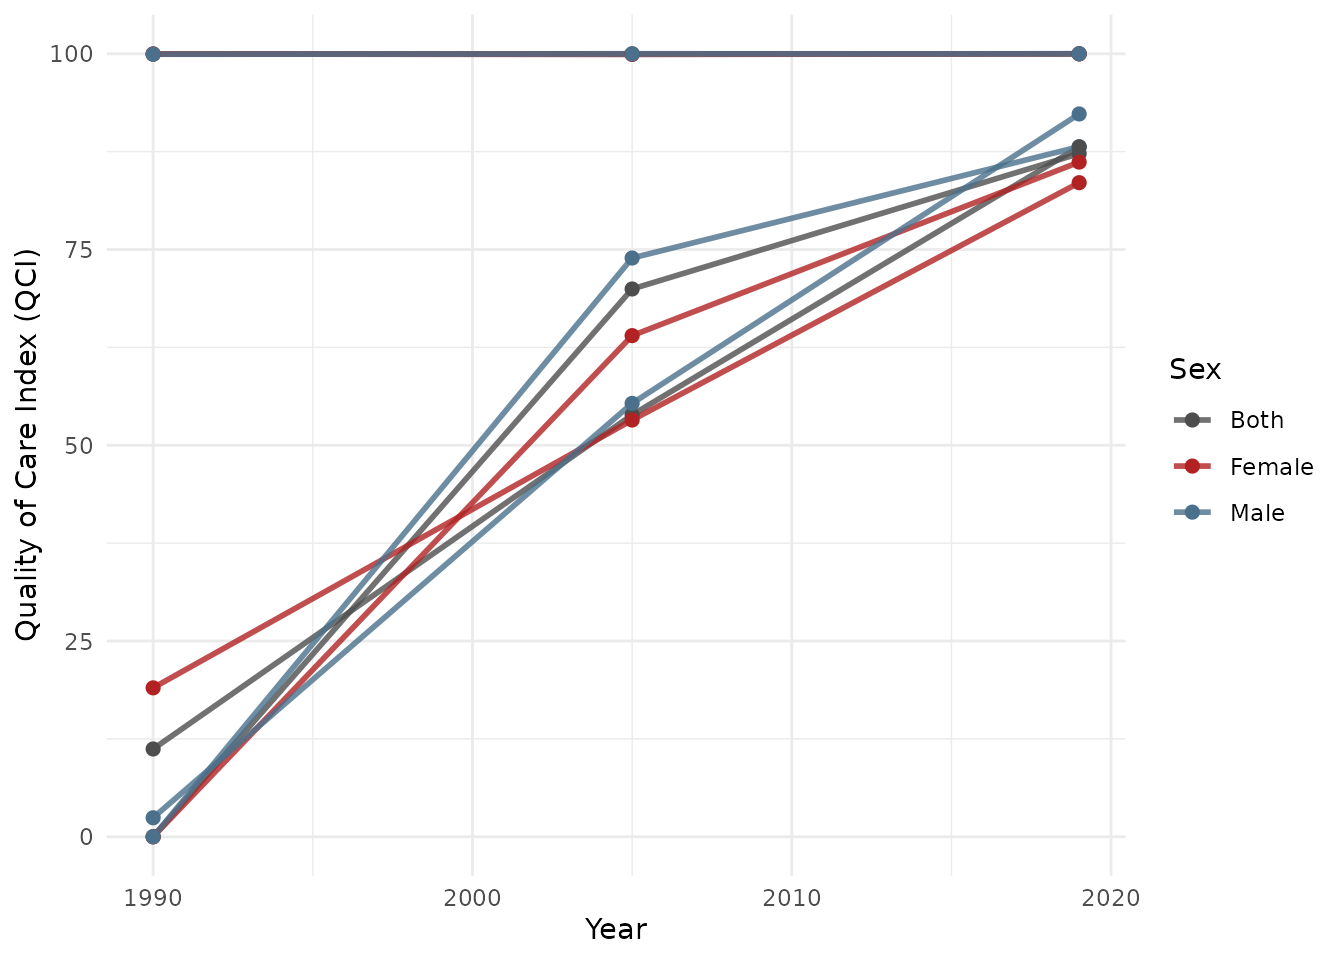
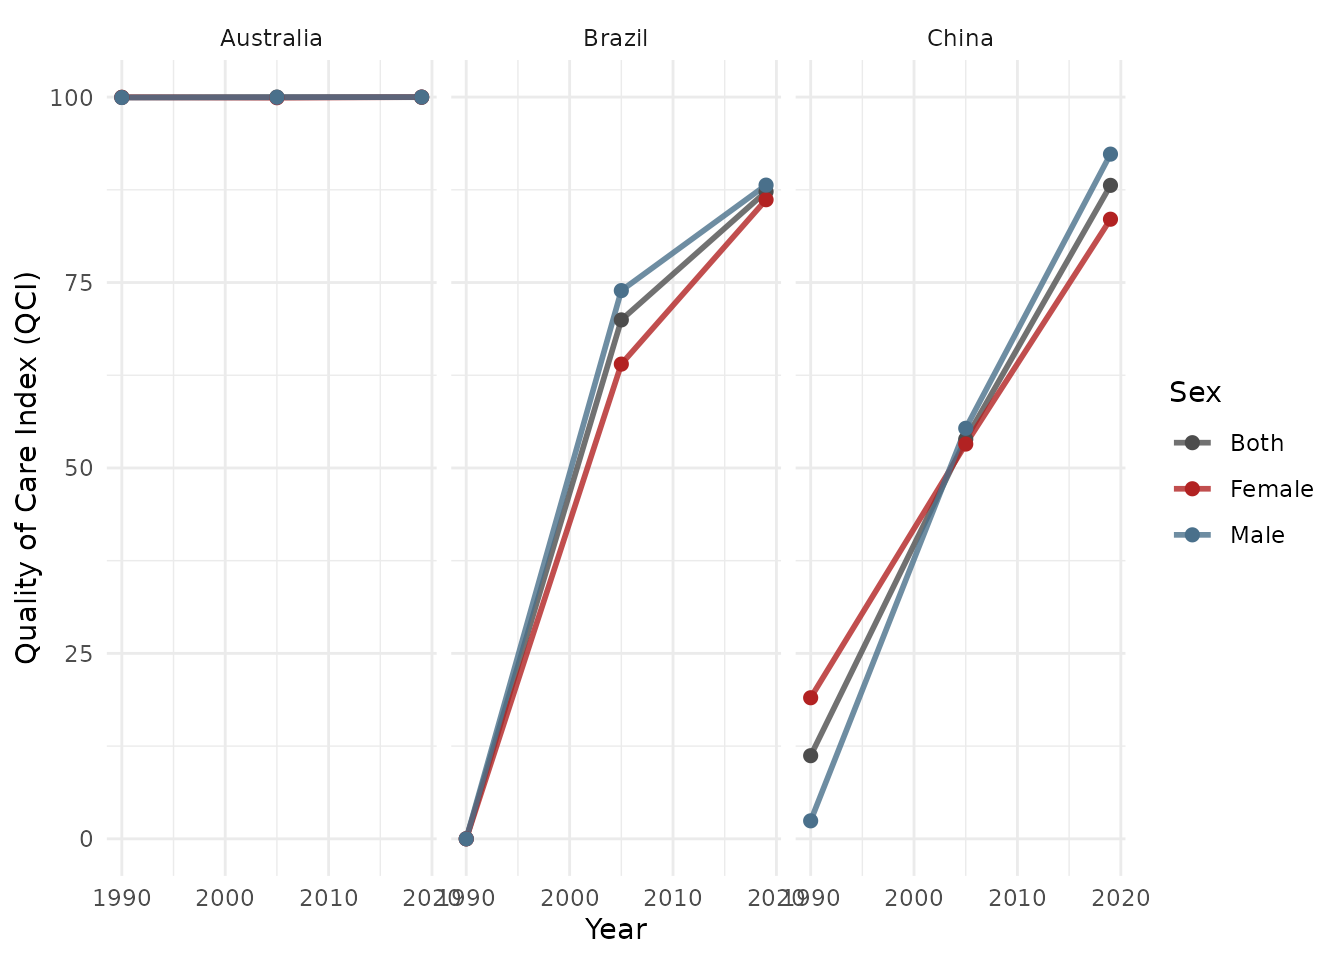
Deploying to gh-pages from @ choxos/qci@e982fe065ff5225c490eaf971d1ea23050a9a810 🚀

diff --git a/reference/plot_qci_trend.html b/reference/plot_qci_trend.html
@@ -1,7 +1,7 @@
 <!DOCTYPE html>
-<!-- Generated by pkgdown: do not edit by hand --><html lang="en"><head><meta http-equiv="Content-Type" content="text/html; charset=UTF-8"><meta charset="utf-8"><meta http-equiv="X-UA-Compatible" content="IE=edge"><meta name="viewport" content="width=device-width, initial-scale=1, shrink-to-fit=no"><title>Plot QCI trends over time — plot_qci_trend • qci</title><!-- katex math --><link rel="stylesheet" href="https://cdn.jsdelivr.net/npm/katex@0.16.11/dist/katex.min.css" integrity="sha384-nB0miv6/jRmo5UMMR1wu3Gz6NLsoTkbqJghGIsx//Rlm+ZU03BU6SQNC66uf4l5+" crossorigin="anonymous"><script defer src="https://cdn.jsdelivr.net/npm/katex@0.16.11/dist/katex.min.js" integrity="sha384-7zkQWkzuo3B5mTepMUcHkMB5jZaolc2xDwL6VFqjFALcbeS9Ggm/Yr2r3Dy4lfFg" crossorigin="anonymous"></script><script defer src="https://cdn.jsdelivr.net/npm/katex@0.16.11/dist/contrib/auto-render.min.js" integrity="sha384-43gviWU0YVjaDtb/GhzOouOXtZMP/7XUzwPTstBeZFe/+rCMvRwr4yROQP43s0Xk" crossorigin="anonymous" onload="renderMathInElement(document.body);"></script><script src="../katex-auto.js"></script><script src="../lightswitch.js"></script><script src="../deps/jquery-3.6.0/jquery-3.6.0.min.js"></script><meta name="viewport" content="width=device-width, initial-scale=1, shrink-to-fit=no"><link href="../deps/bootstrap-5.3.1/bootstrap.min.css" rel="stylesheet"><script src="../deps/bootstrap-5.3.1/bootstrap.bundle.min.js"></script><link href="../deps/Source_Sans_Pro-0.4.10/font.css" rel="stylesheet"><link href="../deps/font-awesome-6.5.2/css/all.min.css" rel="stylesheet"><link href="../deps/font-awesome-6.5.2/css/v4-shims.min.css" rel="stylesheet"><script src="../deps/headroom-0.11.0/headroom.min.js"></script><script src="../deps/headroom-0.11.0/jQuery.headroom.min.js"></script><script src="../deps/bootstrap-toc-1.0.1/bootstrap-toc.min.js"></script><script src="../deps/clipboard.js-2.0.11/clipboard.min.js"></script><script src="../deps/search-1.0.0/autocomplete.jquery.min.js"></script><script src="../deps/search-1.0.0/fuse.min.js"></script><script src="../deps/search-1.0.0/mark.min.js"></script><!-- pkgdown --><script src="../pkgdown.js"></script><meta property="og:title" content="Plot QCI trends over time — plot_qci_trend"><meta name="description" content="Creates line plots of QCI over years, optionally stratified by sex
-and/or faceted by location."><meta property="og:description" content="Creates line plots of QCI over years, optionally stratified by sex
-and/or faceted by location."><meta property="og:image" content="https://choxos.github.io/qci/logo.svg"></head><body>
+<!-- Generated by pkgdown: do not edit by hand --><html lang="en"><head><meta http-equiv="Content-Type" content="text/html; charset=UTF-8"><meta charset="utf-8"><meta http-equiv="X-UA-Compatible" content="IE=edge"><meta name="viewport" content="width=device-width, initial-scale=1, shrink-to-fit=no"><title>Plot QCI trends over time — plot_qci_trend • qci</title><!-- katex math --><link rel="stylesheet" href="https://cdn.jsdelivr.net/npm/katex@0.16.11/dist/katex.min.css" integrity="sha384-nB0miv6/jRmo5UMMR1wu3Gz6NLsoTkbqJghGIsx//Rlm+ZU03BU6SQNC66uf4l5+" crossorigin="anonymous"><script defer src="https://cdn.jsdelivr.net/npm/katex@0.16.11/dist/katex.min.js" integrity="sha384-7zkQWkzuo3B5mTepMUcHkMB5jZaolc2xDwL6VFqjFALcbeS9Ggm/Yr2r3Dy4lfFg" crossorigin="anonymous"></script><script defer src="https://cdn.jsdelivr.net/npm/katex@0.16.11/dist/contrib/auto-render.min.js" integrity="sha384-43gviWU0YVjaDtb/GhzOouOXtZMP/7XUzwPTstBeZFe/+rCMvRwr4yROQP43s0Xk" crossorigin="anonymous" onload="renderMathInElement(document.body);"></script><script src="../katex-auto.js"></script><script src="../lightswitch.js"></script><script src="../deps/jquery-3.6.0/jquery-3.6.0.min.js"></script><meta name="viewport" content="width=device-width, initial-scale=1, shrink-to-fit=no"><link href="../deps/bootstrap-5.3.1/bootstrap.min.css" rel="stylesheet"><script src="../deps/bootstrap-5.3.1/bootstrap.bundle.min.js"></script><link href="../deps/Source_Sans_Pro-0.4.10/font.css" rel="stylesheet"><link href="../deps/font-awesome-6.5.2/css/all.min.css" rel="stylesheet"><link href="../deps/font-awesome-6.5.2/css/v4-shims.min.css" rel="stylesheet"><script src="../deps/headroom-0.11.0/headroom.min.js"></script><script src="../deps/headroom-0.11.0/jQuery.headroom.min.js"></script><script src="../deps/bootstrap-toc-1.0.1/bootstrap-toc.min.js"></script><script src="../deps/clipboard.js-2.0.11/clipboard.min.js"></script><script src="../deps/search-1.0.0/autocomplete.jquery.min.js"></script><script src="../deps/search-1.0.0/fuse.min.js"></script><script src="../deps/search-1.0.0/mark.min.js"></script><!-- pkgdown --><script src="../pkgdown.js"></script><meta property="og:title" content="Plot QCI trends over time — plot_qci_trend"><meta name="description" content="Creates line plots of QCI over years, stratified by sex. When multiple
+locations are present, automatically facets by location for readability."><meta property="og:description" content="Creates line plots of QCI over years, stratified by sex. When multiple
+locations are present, automatically facets by location for readability."><meta property="og:image" content="https://choxos.github.io/qci/logo.svg"></head><body>
     <a href="#main" class="visually-hidden-focusable">Skip to contents</a>
 
 
@@ -38,8 +38,8 @@ and/or faceted by location."><meta property="og:image" content="https://choxos.g
     </div>
 
     <div class="ref-description section level2">
-    <p>Creates line plots of QCI over years, optionally stratified by sex
-and/or faceted by location.</p>
+    <p>Creates line plots of QCI over years, stratified by sex. When multiple
+locations are present, automatically facets by location for readability.</p>
     </div>
 
     <div class="section level2">
@@ -83,7 +83,9 @@ Default <code>c(Male = "skyblue4", Female = "firebrick", Both = "grey30")</code>
 
 
 <dt id="arg-facet-by">facet_by<a class="anchor" aria-label="anchor" href="#arg-facet-by"></a></dt>
-<dd><p>Character. Column to facet by. Default <code>NULL</code>.</p></dd>
+<dd><p>Character. Column to facet by. When <code>NULL</code> (default),
+auto-facets by <code>location_name</code> if more than one location is present.
+Set to <code>FALSE</code> to disable auto-faceting.</p></dd>
 
 
 <dt id="arg-free-y">free_y<a class="anchor" aria-label="anchor" href="#arg-free-y"></a></dt>

diff --git a/reference/plot_qci_trend.md b/reference/plot_qci_trend.md
@@ -1,7 +1,7 @@
 # Plot QCI trends over time
 
-Creates line plots of QCI over years, optionally stratified by sex
-and/or faceted by location.
+Creates line plots of QCI over years, stratified by sex. When multiple
+locations are present, automatically facets by location for readability.
 
 ## Usage
 
@@ -44,7 +44,9 @@ plot_qci_trend(
 
 - facet_by:
 
-  Character. Column to facet by. Default `NULL`.
+  Character. Column to facet by. When `NULL` (default), auto-facets by
+  `location_name` if more than one location is present. Set to `FALSE`
+  to disable auto-faceting.
 
 - free_y:
 
